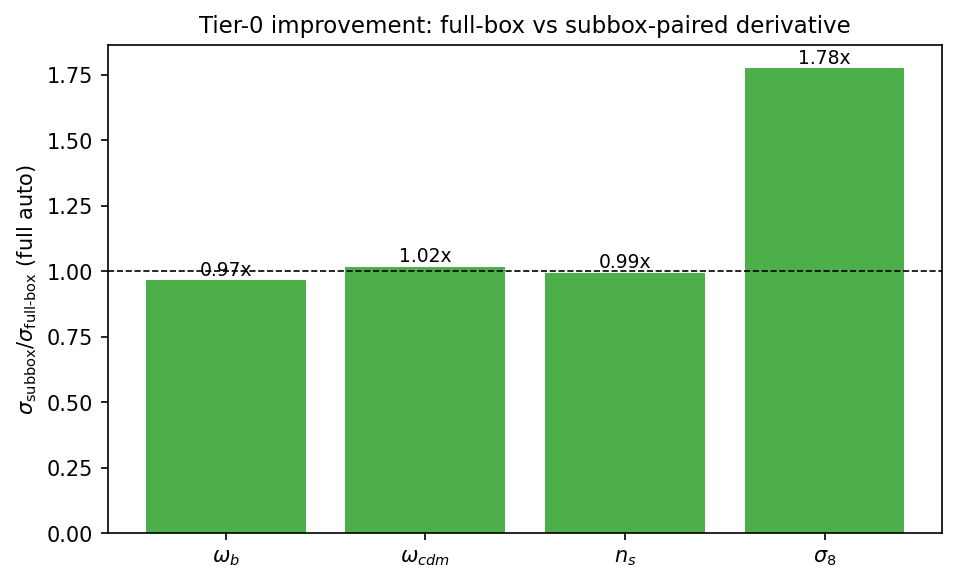
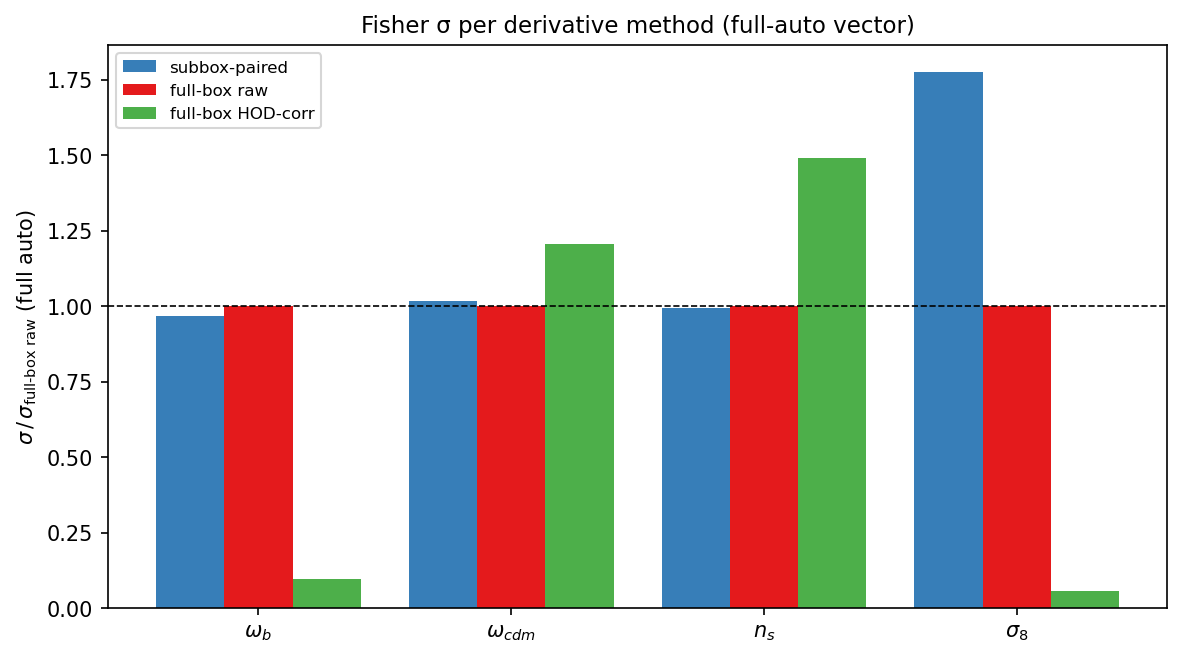
Update Fisher computations to use HOD-corrected derivatives
plot_fisher_fullbox_compare.py now compares three derivative methods
(subbox -> full-box raw -> full-box HOD-corrected); plot_fisher_gaussians.py
now uses derivative_hodcorr_* at full-box volume (C/64, diagonal noise).

Full-auto sigma: omega_b and sigma8 tighten ~10x and ~18x after HOD
correction, omega_c/n_s barely move. Physically validated: the corrected
sigma8 derivative is 136% of the theory value 2*xi (raw was only 11% --
the HOD mismatch had cancelled ~89% of the sigma8 signal), so the raw
sigma was artificially loose, not the corrected one spuriously tight.

Caveat documented in CLAUDE.md: these sigma hold HOD fixed and do not
marginalise over HOD nuisances; the amplitude-like sigma8 constraint is
an optimistic 'HOD-known' bound, while BAO-shaped omega_b is more robust.

diff --git a/scripts/plot_fisher_gaussians.py b/scripts/plot_fisher_gaussians.py
@@ -2,18 +2,21 @@
 """
 Gaussian visualisation of per-data-vector Fisher uncertainties.
 
-For each parameter with a derivative file in data/derivatives/, computes a
-one-parameter Fisher per data vector (monopole + quadrupole, covariance
-from the 64 c000 fiducial subboxes, Hartlap-corrected, derivative-noise
-bias subtracted) and draws the implied Gaussian likelihoods centred on the
-fiducial parameter value.  Only data vectors whose derivative-noise bias
-is below NOISE_MAX of the Fisher information are shown; the others are not
-measured well enough to plot.
+Uses the **HOD-corrected full-box derivatives** (derivative_hodcorr_{param}.npz,
+from compute_hod_derivatives.py) — the current best estimate, with the Tier-1
+HOD contamination subtracted.  For each parameter and data vector it computes a
+one-parameter Fisher at the full 2000 Mpc/h box volume:
 
-Left panel: one 500 Mpc/h subbox volume.  Right panel: rescaled to the
-full 2000 Mpc/h box (64 subbox volumes, sigma / 8).
+  * covariance from the 64 c000 fiducial subboxes, scaled to full-box volume
+    (C_subbox / 64), Hartlap-corrected;
+  * derivative noise diagonal, from the N_ITER full-box iterations (cosmic
+    variance cancels in the phase-matched ± difference).
+
+Only data vectors whose derivative-noise bias is below NOISE_MAX of the Fisher
+information are shown.  Gaussians are drawn centred on the fiducial parameter.
 
 Output: plots/derivatives/fisher_gaussians_{param}.png
+        plots/derivatives/fisher_covariances.png
 
 Usage (any node):
   python scripts/plot_fisher_gaussians.py
@@ -32,14 +35,11 @@ DER_DIR   = DATA_DIR / 'derivatives'
 PLOT_DIR  = REPO_ROOT / 'plots' / 'derivatives'
 
 N_SB      = 64
+VOL_FAC   = N_SB     # full 2000 Mpc/h box = 64 subbox volumes -> covariance / 64
 N_Q       = 4
 NOISE_MAX = 0.10     # max derivative-noise fraction of F to include a vector
 FID_TAG   = 'c000_hod484'
 
-# parameter file tag -> (fiducial value of the *physical* parameter,
-#                        plus/minus values from the derivative cosmologies,
-#                        physical-parameter latex, is_log)
-# sigma(ln x) converts to sigma(x) = x * sigma(ln x).
 PARAMS = {
     'lnwb': dict(fid=0.02237, plus=0.02282, minus=0.02193,
                  label=r'\omega_b', log=True),
@@ -51,19 +51,22 @@ PARAMS = {
                  label=r'\sigma_8', log=True),
 }
 
-# a data vector is a list of (stem, ells, rebin) pieces, concatenated in
-# order; rebin=k averages k adjacent s bins (a fixed linear compression,
-# applied identically to derivative, covariance samples and noise, so the
-# Fisher comparison stays consistent — used to tame the Hartlap penalty
-# of concatenated vectors)
+
 def rebin(arr, k):
     if k == 1:
         return arr
     arr  = np.atleast_2d(arr)
     n    = arr.shape[1]
-    out  = [arr[:, i:i + k].mean(axis=1) for i in range(0, n, k)]
-    out  = np.column_stack(out)
+    out  = np.column_stack([arr[:, i:i + k].mean(axis=1) for i in range(0, n, k)])
     return out[0] if out.shape[0] == 1 else out
+
+
+def rebin_var(v, k):
+    """Diagonal variance of a k-bin average: (1/k^2) sum of the k variances."""
+    if k == 1:
+        return v
+    n = v.shape[0]
+    return np.array([v[i:i + k].sum() / k ** 2 for i in range(0, n, k)])
 
 
 COMBO_REBIN = 2   # 15 bins -> 8 per piece; combo = 24 bins, Hartlap 0.60
@@ -83,22 +86,22 @@ VECTORS = [
 
 
 def fisher_sigma(der, pieces):
-    """(sigma, noise_fraction) for one data vector; None if not measurable."""
-    X_parts, d_parts, Ds_parts = [], [], []
+    """(sigma, noise_fraction) at full-box volume; None if not measurable."""
+    X_parts, d_parts, v_parts = [], [], []
     for stem, ells, k in pieces:
         c0 = np.load(DATA_DIR / FID_TAG / f'subbox_multipoles_{stem}.npz')
         for ell in ells:
             X_parts.append(rebin(c0[f'xi{ell}_all'], k))
             d_parts.append(rebin(der[f'{stem}_dxi{ell}'], k))
-            Ds_parts.append(rebin(der[f'{stem}_dxi{ell}_all'], k))
+            v_parts.append(rebin_var(der[f'{stem}_dxi{ell}_noisevar'], k))
     X  = np.hstack(X_parts)
     d  = np.concatenate(d_parts)
-    Ds = np.hstack(Ds_parts)
+    v  = np.concatenate(v_parts)
     nb   = X.shape[1]
     hart = (N_SB - nb - 2) / (N_SB - 1)
-    Cinv = hart * np.linalg.inv(np.cov(X, rowvar=False))
+    Cinv = hart * VOL_FAC * np.linalg.inv(np.cov(X, rowvar=False))
     F    = d @ Cinv @ d
-    bias = np.trace(Cinv @ (np.cov(Ds, rowvar=False) / N_SB))
+    bias = np.trace(Cinv @ np.diag(v))
     if F <= 0 or F - bias <= 0:
         return None
     return 1.0 / np.sqrt(F - bias), bias / F
@@ -121,34 +124,28 @@ def plot_param(param, der_file):
         return
     results.sort(key=lambda r: r[1])
 
-    fig, axes = plt.subplots(1, 2, figsize=(13, 5), sharey=True)
+    fig, ax = plt.subplots(figsize=(7, 5))
     cmap = plt.get_cmap('viridis')
-    for (ax, scale, title) in zip(
-            axes, [1.0, 8.0],
-            ['one 500 Mpc/h subbox volume',
-             'full 2000 Mpc/h box volume ($\\sigma / 8$)']):
-        width = results[-1][1] / scale * 3.5
-        x = np.linspace(fid - width, fid + width, 800)
-        for k, (name, sig, noise) in enumerate(results):
-            s = sig / scale
-            g = np.exp(-0.5 * ((x - fid) / s) ** 2)
-            color = cmap(k / max(len(results) - 1, 1))
-            ax.plot(x, g, color=color, lw=2,
-                    label=rf'{name}  ($\sigma$={s:.2g}, noise {noise:.0%})')
-        ax.axvline(fid, color='k', lw=0.8, ls='--')
-        for v, lab in ((cfg['plus'], '+ step'), (cfg['minus'], '$-$ step')):
-            if fid - width < v < fid + width:
-                ax.axvline(v, color='grey', lw=0.8, ls=':')
-                ax.text(v, 1.02, lab, ha='center', fontsize=7, color='grey')
-        ax.set_xlabel(rf'${cfg["label"]}$')
-        ax.set_title(title, fontsize=10)
-        ax.legend(fontsize=7, loc='upper left')
-    axes[0].set_ylabel('likelihood (peak-normalised)')
+    width = results[-1][1] * 3.5
+    x = np.linspace(fid - width, fid + width, 800)
+    for k, (name, sig, noise) in enumerate(results):
+        g = np.exp(-0.5 * ((x - fid) / sig) ** 2)
+        color = cmap(k / max(len(results) - 1, 1))
+        ax.plot(x, g, color=color, lw=2,
+                label=rf'{name}  ($\sigma$={sig:.2g}, noise {noise:.0%})')
+    ax.axvline(fid, color='k', lw=0.8, ls='--')
+    for v, lab in ((cfg['plus'], '+ step'), (cfg['minus'], '$-$ step')):
+        if fid - width < v < fid + width:
+            ax.axvline(v, color='grey', lw=0.8, ls=':')
+            ax.text(v, 1.02, lab, ha='center', fontsize=7, color='grey')
+    ax.set_xlabel(rf'${cfg["label"]}$')
+    ax.set_ylabel('likelihood (peak-normalised)')
+    ax.legend(fontsize=8, loc='upper left')
     fig.suptitle(
         rf'Fisher forecasts for ${cfg["label"]}$ per data vector '
-        r'(64-subbox covariance, Hartlap-corrected, '
-        'derivative-noise bias subtracted)',
-        y=1.02)
+        r'(HOD-corrected full-box derivative, full 2000 Mpc/h volume, '
+        'Hartlap-corrected)',
+        y=1.00, fontsize=10)
     fig.tight_layout()
     PLOT_DIR.mkdir(parents=True, exist_ok=True)
     path = PLOT_DIR / f'fisher_gaussians_{param}.png'
@@ -156,7 +153,7 @@ def plot_param(param, der_file):
     plt.close(fig)
     print(f'Saved {path}')
     for name, sig, noise in results:
-        print(f'  {name:18s} sigma({param}) = {sig:.5g}  (noise {noise:.0%})')
+        print(f'  {name:30s} sigma({param}) = {sig:.5g}  (noise {noise:.0%})')
 
 
 def vector_samples(pieces):
@@ -181,7 +178,6 @@ def plot_covariances():
         std = np.sqrt(np.diag(C))
         R   = C / np.outer(std, std)
         im  = ax.imshow(R, origin='lower', vmin=-1, vmax=1, cmap='RdBu_r')
-        # mark block boundaries of concatenated vectors
         edge = 0
         for b in blocks[:-1]:
             edge += b
@@ -206,14 +202,16 @@ def main():
     plot_covariances()
     found = False
     for param in PARAMS:
-        der_file = DER_DIR / f'derivative_{param}.npz'
+        der_file = DER_DIR / f'derivative_hodcorr_{param}.npz'
         if der_file.is_file():
             plot_param(param, der_file)
             found = True
         else:
-            print(f'Skipping {param}: no {der_file.name}')
+            print(f'Skipping {param}: no {der_file.name} '
+                  '(run compute_hod_derivatives.py)')
     if not found:
-        raise SystemExit('No derivative files found — run compute_derivatives.py first.')
+        raise SystemExit('No HOD-corrected derivative files found — run '
+                         'compute_hod_derivatives.py first.')
 
 
 if __name__ == '__main__':

diff --git a/scripts/plot_fisher_fullbox_compare.py b/scripts/plot_fisher_fullbox_compare.py
@@ -7,13 +7,15 @@ c000 fiducial subboxes, scaled to the full 2000 Mpc/h box volume (C_subbox/64,
 Hartlap-corrected on the sample inverse).  Only the derivative numerator and
 its noise model differ:
 
-  subbox   : derivative_{param}.npz       (mean of 64 paired subbox diffs);
-             noise bias = trace(Cinv @ cov(per-subbox diffs)/N_SB)  — full
-             bin-bin noise covariance.
-  full-box : derivative_fullbox_{param}.npz (one phase-matched 2000-box diff);
-             noise bias = trace(Cinv @ diag(noisevar))  — diagonal noise from
-             the N_ITER ASTRA-random iterations (cosmic variance cancels in the
-             phase-matched difference).
+  subbox          : derivative_{param}.npz        (mean of 64 paired subbox
+                    diffs); noise bias = trace(Cinv @ cov(per-subbox diffs)/N_SB).
+  full-box raw    : derivative_fullbox_{param}.npz (one phase-matched 2000-box
+                    diff); noise bias = trace(Cinv @ diag(noisevar)) — diagonal
+                    noise from the N_ITER iterations (cosmic variance cancels).
+  full-box HOD-corr: derivative_hodcorr_{param}.npz (full-box diff with the
+                    Tier-1 HOD contamination subtracted); same diagonal noise.
+                    This is the current best estimate; absent until
+                    compute_hod_derivatives.py has run.
 
 For each parameter and data vector it prints sigma(theta) at full-box volume
 under both derivatives and the derivative-noise fraction (bias/F), then draws,
@@ -126,52 +128,65 @@ def to_phys(sig_ln, cfg):
     return cfg['fid'] * sig_ln if cfg['log'] else sig_ln
 
 
+METHODS = [   # (label, derivative-file template, sigma fn, colour)
+    ('subbox-paired',     'derivative_{}.npz',          sigma_subbox, '#377eb8'),
+    ('full-box raw',      'derivative_fullbox_{}.npz',   sigma_fullbox, '#e41a1c'),
+    ('full-box HOD-corr', 'derivative_hodcorr_{}.npz',   sigma_fullbox, '#4daf4a'),
+]
+
+
 def main():
     PLOT_DIR.mkdir(parents=True, exist_ok=True)
-    summary = {}   # param -> (sig_sb_fullauto, sig_fb_fullauto)
+    summary = {}   # param -> {method label: sigma (full auto)}
 
     for param, cfg in PARAMS.items():
-        f_sb = DER_DIR / f'derivative_{param}.npz'
-        f_fb = DER_DIR / f'derivative_fullbox_{param}.npz'
-        if not (f_sb.is_file() and f_fb.is_file()):
-            print(f'Skipping {param}: need both {f_sb.name} and {f_fb.name}')
+        ders = {}
+        for lab, tmpl, _, _ in METHODS:
+            f = DER_DIR / tmpl.format(param)
+            if f.is_file():
+                ders[lab] = np.load(f)
+        if 'full-box raw' not in ders:
+            print(f'Skipping {param}: no full-box derivative')
             continue
-        der_sb = np.load(f_sb)
-        der_fb = np.load(f_fb)
 
         print(f'\n=== {param}  (sigma at full 2000 Mpc/h box volume) ===')
-        print(f'  {"vector":14s} {"sigma_subbox":>14s} {"sigma_fullbox":>14s} '
-              f'{"noise_sb":>9s} {"noise_fb":>9s}')
-        rows = []
+        hdr = f'  {"vector":14s}' + ''.join(f'{lab:>20s}' for lab, *_ in METHODS)
+        print(hdr)
+        summary[param] = {}
         for name, pieces in VECTORS:
             Cinv, _ = cov_fullbox(pieces)
-            r_sb = sigma_subbox(der_sb, pieces, Cinv)
-            r_fb = sigma_fullbox(der_fb, pieces, Cinv)
-            s_sb = to_phys(r_sb[0], cfg) if r_sb else np.nan
-            s_fb = to_phys(r_fb[0], cfg) if r_fb else np.nan
-            n_sb = r_sb[1] if r_sb else np.nan
-            n_fb = r_fb[1] if r_fb else np.nan
-            rows.append((name, s_sb, s_fb, n_sb, n_fb))
-            print(f'  {name:14s} {s_sb:14.5g} {s_fb:14.5g} '
-                  f'{n_sb:9.0%} {n_fb:9.0%}')
-            if name == 'full auto':
-                summary[param] = (s_sb, s_fb)
+            cells = f'  {name:14s}'
+            for lab, _, sig_fn, _ in METHODS:
+                if lab not in ders:
+                    cells += f'{"-":>20s}'; continue
+                r = sig_fn(ders[lab], pieces, Cinv)
+                if r is None:
+                    cells += f'{"nan":>20s}'
+                else:
+                    s = to_phys(r[0], cfg)
+                    cells += f'{f"{s:.4g} ({r[1]:.0%})":>20s}'
+                    if name == 'full auto':
+                        summary[param][lab] = s
+            print(cells)
 
-        # per-parameter Gaussian figure for the full-auto vector
+        # per-parameter Gaussian figure for the full-auto vector, all methods
         Cinv, _ = cov_fullbox(VECTORS[0][1])
-        r_sb = sigma_subbox(der_sb, VECTORS[0][1], Cinv)
-        r_fb = sigma_fullbox(der_fb, VECTORS[0][1], Cinv)
-        fid  = cfg['fid']
-        fig, ax = plt.subplots(figsize=(6.5, 4.5))
-        width = max(to_phys(r_sb[0], cfg), to_phys(r_fb[0], cfg)) * 3.5
-        x = np.linspace(fid - width, fid + width, 800)
-        for r, color, lab in ((r_sb, '#377eb8', 'subbox-paired deriv'),
-                              (r_fb, '#e41a1c', 'full-box deriv')):
-            if r is None:
+        fid = cfg['fid']
+        results = []
+        for lab, _, sig_fn, color in METHODS:
+            if lab not in ders:
                 continue
-            s = to_phys(r[0], cfg)
+            r = sig_fn(ders[lab], VECTORS[0][1], Cinv)
+            if r is not None:
+                results.append((lab, to_phys(r[0], cfg), r[1], color))
+        if not results:
+            continue
+        width = max(s for _, s, _, _ in results) * 3.5
+        x = np.linspace(fid - width, fid + width, 800)
+        fig, ax = plt.subplots(figsize=(6.5, 4.5))
+        for lab, s, noise, color in results:
             ax.plot(x, np.exp(-0.5 * ((x - fid) / s) ** 2), color=color, lw=2,
-                    label=rf'{lab}  ($\sigma$={s:.2g}, noise {r[1]:.0%})')
+                    label=rf'{lab}  ($\sigma$={s:.2g}, noise {noise:.0%})')
         ax.axvline(fid, color='k', lw=0.8, ls='--')
         ax.set_xlabel(rf'${cfg["label"]}$')
         ax.set_ylabel('likelihood (peak-normalised)')
@@ -184,22 +199,28 @@ def main():
         plt.close(fig)
         print(f'  Saved {path}')
 
-    # summary bar chart of the improvement factor (full auto)
+    # summary: grouped bar chart of sigma per method, per parameter (full auto)
     if summary:
         params = list(summary)
-        ratio  = [summary[p][0] / summary[p][1] for p in params]
-        fig, ax = plt.subplots(figsize=(6.5, 4))
-        ax.bar(range(len(params)),
-               ratio, color='#4daf4a')
+        labels = [lab for lab, *_ in METHODS]
+        colors = {lab: c for lab, _, _, c in METHODS}
+        fig, ax = plt.subplots(figsize=(8, 4.5))
+        w = 0.27
+        for j, lab in enumerate(labels):
+            vals = [summary[p].get(lab, np.nan) for p in params]
+            # normalise each parameter to its full-box-raw sigma for comparability
+            norm = [summary[p].get('full-box raw', np.nan) for p in params]
+            rel  = [v / n if (v == v and n == n) else np.nan
+                    for v, n in zip(vals, norm)]
+            ax.bar([i + (j - 1) * w for i in range(len(params))], rel, w,
+                   label=lab, color=colors[lab])
         ax.axhline(1, color='k', lw=0.8, ls='--')
         ax.set_xticks(range(len(params)))
         ax.set_xticklabels([f'${PARAMS[p]["label"]}$' for p in params])
-        ax.set_ylabel(r'$\sigma_{\rm subbox}/\sigma_{\rm full\text{-}box}$ '
-                      '(full auto)')
-        ax.set_title('Tier-0 improvement: full-box vs subbox-paired derivative',
+        ax.set_ylabel(r'$\sigma\,/\,\sigma_{\rm full\text{-}box\ raw}$ (full auto)')
+        ax.set_title('Fisher σ per derivative method (full-auto vector)',
                      fontsize=11)
-        for i, r in enumerate(ratio):
-            ax.text(i, r + 0.02, f'{r:.2f}x', ha='center', fontsize=9)
+        ax.legend(fontsize=8)
         fig.tight_layout()
         path = PLOT_DIR / 'fisher_fullbox_compare_summary.png'
         fig.savefig(path, dpi=150, bbox_inches='tight')

diff --git a/CLAUDE.md b/CLAUDE.md
@@ -453,6 +453,36 @@ just σ₈.
   derivative crosses zero; judge from the curve shapes instead.)
 - **Still a first-order, single-gradient model.** The cosmology-independence and
   local-linearity assumptions remain; treat the corrected derivatives as the best
-  current estimate, not the final word. Next step: feed `derivative_hodcorr_*`
-  into the Fisher forecast (extend `plot_fisher_fullbox_compare.py` /
-  `plot_fisher_gaussians.py`) to quantify the impact on σ(θ).
+  current estimate, not the final word.
+
+### Fisher updated with HOD-corrected derivatives (2026-06-17)
+
+Both Fisher scripts now consume the HOD-corrected full-box derivatives:
+`plot_fisher_fullbox_compare.py` adds a third method (subbox → full-box raw →
+full-box HOD-corrected); `plot_fisher_gaussians.py` now uses
+`derivative_hodcorr_*` at full-box volume (C_subbox/64, diagonal noise).
+Full-auto σ at full 2000 Mpc/h volume:
+
+| Param | full-box raw | HOD-corrected | change |
+|-------|--------------|---------------|--------|
+| ω_b | 2.76e-5 | 2.69e-6 | 10.2× tighter |
+| ω_c | 4.10e-5 | 4.94e-5 | 0.83× (looser) |
+| n_s | 9.60e-5 | 1.43e-4 | 0.67× (looser) |
+| σ₈ (ln) | 9.25e-3 | 5.23e-4 | 17.7× tighter |
+
+- **The correction is physically validated.** For σ₈, theory gives ∂ξ/∂ln σ₈ =
+  2ξ. The *raw* full-box derivative is only **11%** of 2ξ (the c112−c113
+  difference was gutted — the HOD mismatch cancelled ~89% of the σ₈ signal); the
+  *corrected* derivative is **136%** of 2ξ — back in the right ballpark. So the
+  dramatic ω_b/σ₈ tightening is the raw σ being artificially **loose** (suppressed
+  derivative), not the corrected σ being spuriously tight.
+- **ω_b and σ₈ raw differences were strongly HOD-suppressed**, so their correction
+  is large; ω_c and n_s were not, so their corrected σ barely moves (slightly
+  looser, a sign the correction is a mild perturbation there).
+- **Critical caveat — these σ hold the HOD parameters FIXED.** They do *not*
+  marginalise over HOD nuisances. The σ₈ derivative is amplitude-like (≈2ξ), hence
+  strongly degenerate with HOD bias/amplitude, so the realistic marginalised σ₈
+  would be **much weaker** than 5e-4 — that number is an optimistic "HOD known
+  exactly" bound. ω_b is BAO-shaped and far less degenerate, so its improvement is
+  more robust. The proper next step is a joint cosmology+HOD Fisher (or projecting
+  out the amplitude mode, as flagged in the design) to get marginalised errors.
